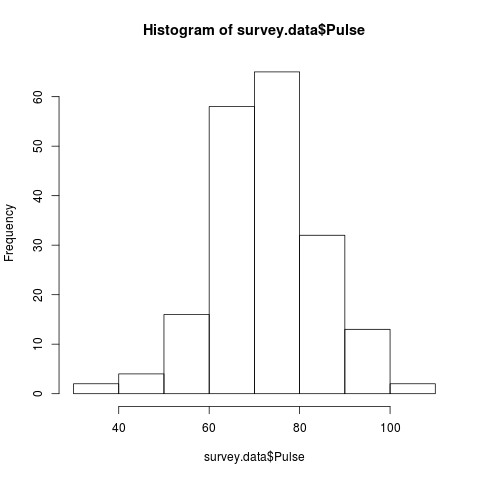
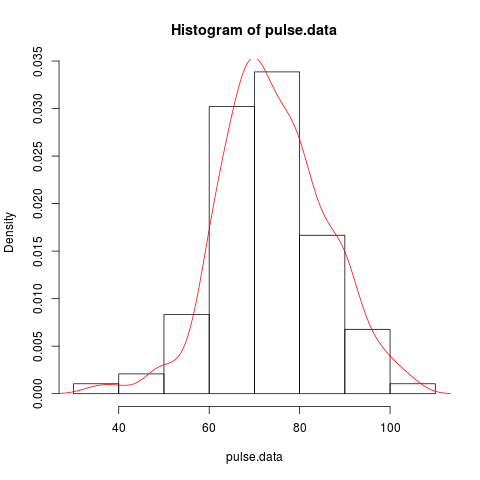
Add density of the pulse data

diff --git a/Week2/README.md b/Week2/README.md
@@ -1,4 +1,8 @@
 # Task 2:
   * `barplot.png` - plots the correlation between Sex and Smoke data categories in `survey.csv`.
+  * `pie.png`     - makes pie chart for the Smoke frequency of the survey participants 
+  * `histogram.png` - makes a histogram for the Pulse information and it`s density
 
 ![alt tag](https://github.com/TsHristov/Probability-And-Statistics-FMI-2017/blob/master/Week2/Plots/barplot.png)
+![alt tag](https://github.com/TsHristov/Probability-And-Statistics-FMI-2017/blob/master/Week2/Plots/pie.png)
+![alt tag](https://github.com/TsHristov/Probability-And-Statistics-FMI-2017/blob/master/Week2/Plots/histogram.png)
